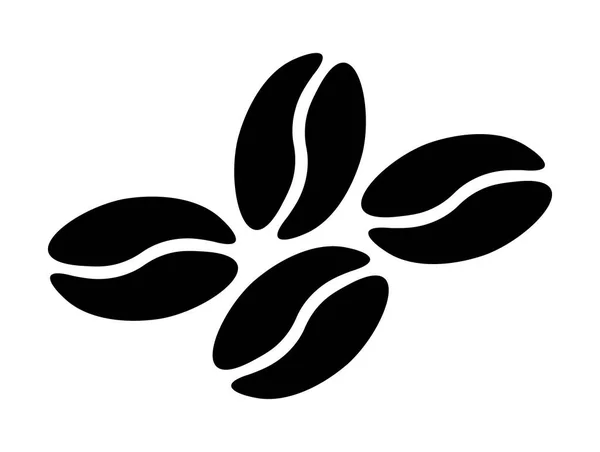
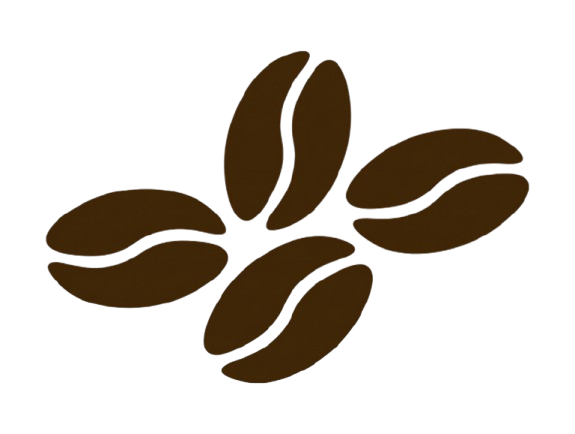
feat: update navigation features and design contact layout

Changed region(s): [[0.0591, 0.1198, 0.9165, 0.8986]]

diff --git a/style.css b/style.css
@@ -29,7 +29,7 @@ body {
 /* navigation */
 .nav-menu {
     display: flex;
-    margin: 4px 10px;
+    margin: 10px 10px;
     justify-content: space-between;
     position: relative;
 }
@@ -46,18 +46,22 @@ body {
 .left-menu p {
     display: flex;
     align-items: center;
+    font-family:'Franklin Gothic Medium', 'Arial Narrow', Arial, sans-serif;
     font-size: 20px;
+    color: #3d2607;
 }
 
 .left-menu-show {
     display: flex;
     position: absolute;
+    top: 110%;
+    z-index: 999;
     flex-direction: column;
     flex: 1;
-    width: 100px;
+    width: 200px;
     padding: 20px;
     gap: 20px;
-    background-color: white;
+    background-color: #f6eede;
     list-style: none;
     align-items: center;
     justify-content: space-between;
@@ -65,8 +69,20 @@ body {
     transition: transform 0.5s ease-in-out;
 }
 
+.left-menu-show a {
+    color: #5c3a21;
+    display: inline-block;
+    transition: transform 0.3s ease, color 0.3s ease;
+}
+
+.left-menu-show a:hover {
+    font-weight: bold;
+    transform: scale(1.1);
+}
+
 .left-menu-show.show {
     transform: translateX(-20px);
+    background-color: #fffaf1;
 }
 
 .right-menu-show {
@@ -79,8 +95,40 @@ body {
 }
 
 .nav-menu .left-menu img {
-    max-width: 5%;
+    max-width: 20%;
     height: 100%;
+}
+
+.right-menu {
+    position: relative; 
+}
+
+.search-button {
+    position: absolute;
+    z-index: 1000;
+    top: 50%;
+    right: 100%;
+    margin-right: 10px;
+    background-color: #fffaf1;
+    padding: 10px;
+    border: solid;
+    border-width: 2px;
+    border-radius: 50px;
+    transform: translateY(-50%) scaleX(0);
+    transform-origin: right center;
+    transition: transform 0.3s ease-in-out; 
+}
+
+.search-button.active {
+    transform: translateY(-50%) scaleX(1);
+}
+
+.search-button input {
+    font-size: 16px;
+    border: none;
+    outline: none;
+    background-color: #fffaf1;
+    margin-left: 10px;
 }
 
 /* hero banner */
@@ -113,13 +161,13 @@ body {
 
 .background-banner h1 {
     font-family: 'Brush Script MT', 'Lucida Handwriting', cursive;
-    font-size: 35px;
+    font-size: 20px;
     font-weight: normal;
 }
 
 .background-banner h2 {
     font-family:'Gill Sans', 'Gill Sans MT', Calibri, 'Trebuchet MS', sans-serif;
-    font-size: 50px;
+    font-size: 30px;
     font-weight: bold;
 }
 
@@ -181,7 +229,58 @@ body {
 
 /* kontak */
 #kontak {
-    margin: 20px 10px 20px;
+    margin: 20px 10px;
+    display: flex;
+    align-items: stretch;
+    border: solid;
+    color: #3d2607;
+    border-color: #000000;
+}
+
+.kontak-img {
+    flex: 0.4;
+}
+
+.kontak-info {
+    flex: 0.6;
+    background-color: #dacfb8;
+    padding: 40px;    
+    display: flex;
+    flex-direction: column;
+    justify-content: center;
+    text-align: left;
+}
+
+.kontak-info h2 {
+    margin-bottom: 0px;
+    font-size: 22px;
+}
+
+.kontak-info h4 {
+    font-style: italic;
+    font-weight: normal;
+    font-size: 12px;
+    margin-bottom: 20px;
+    border-bottom: solid;
+    padding-bottom: 10px;
+    border-color: #000000;
+}
+
+.kontak-info p {
+    margin-bottom: 10px;
+    line-height: 1.6;
+    font-size: 12px;
+}
+
+.kontak-info a:hover {
+    font-weight: bold;
+    color: #61574b;
+}
+
+.kontak-img img {
+    max-width: 100%;
+    height: 100%;
+    object-fit: cover;
 }
 
 /* footer */
@@ -200,24 +299,36 @@ footer {
         flex: 1;
     }
 
+    .nav-menu .left-menu img {
+        max-width: 10%;
+    }
+
     .left-menu-show {
         position: relative;
+        top: 0;
         flex-direction: row;
         flex-wrap: wrap;
         width: auto;
         padding: 10px;
-        gap: 20px;
+        gap: 40px;
         flex: none;
         margin-left: 12px;
         font-size: 16px;
         transform: translateX(0px);
         transition: none;
-        margin-left: 10%;
-        background-color: transparent;
     }
 
     .fas.fa-bars.fa-2x {
         display: none;
+    }
+
+    /* herro banner */
+    .background-banner h1 {
+        font-size: 25px;
+    }
+
+    .background-banner h2 {
+    font-size: 40px;
     }
 
     /* menu */
@@ -246,6 +357,19 @@ footer {
         font-size: 14px;
     }
 
+    /* kontak */
+    .kontak-info h2 {
+        font-size: 28px;
+    }
+
+    .kontak-info h4 {
+        font-size: 16px;
+    }
+
+    .kontak-info p {
+        font-size: 16px;
+    }
+
     /* footer */
     footer {
         font-size: 24px;
@@ -260,12 +384,28 @@ footer {
     }
 
     .left-menu-show {
-        font-size: 24px;
+        top: 0;
+        font-size: 20px;
+        gap: 60px;
+        margin-left: 30px;
     }
 
     .right-menu-show {
         font-size: 24px;
         gap: 40px;
+    }
+
+    .nav-menu .left-menu img {
+        max-width: 10%;
+    }
+
+    /* herro banner */
+    .background-banner h1 {
+        font-size: 35px;
+    }
+
+    .background-banner h2 {
+        font-size: 50px;
     }
 
     /* menu */
@@ -288,6 +428,19 @@ footer {
     }
 
     .tentang-text p {
+        font-size: 16px;
+    }
+
+    /* kontak */
+    .kontak-info h2 {
+        font-size: 28px;
+    }
+
+    .kontak-info h4 {
+        font-size: 16px;
+    }
+
+    .kontak-info p {
         font-size: 16px;
     }
 

diff --git a/index.html b/index.html
@@ -11,7 +11,7 @@
     <!-- navigation -->
     <nav class="nav-menu">
         <div class="left-menu">
-            <img src="img/LogoKopi.png" class="logo" alt="Logo">
+            <img src="/img/biji-kopi.jpg" alt="Logo">
             <p>KOPI NUSANTARA</p>
             <ul class="left-menu-show">
                 <li><a href="#hero-banner">Home</a></li>
@@ -23,10 +23,14 @@
 
         <div class="right-menu">
             <ul class="right-menu-show">
-                <li><a href="#"><i class="fas fa-search"></i></a></li>
+                <li><a href="#" id="searching"><i class="fas fa-search"></i></a></li>
                 <li><a href="#"><i class="fas fa-shopping-cart"></i></a></li>
                 <li><a href="#"><i class="fas fa-bars fa-2x"></i></a></li>
             </ul>
+
+            <div class="search-button">
+                <input type="search" id="search-box" placeholder="Cari kopi...">
+            </div>
         </div>
     </nav>
 
@@ -36,7 +40,7 @@
             <div class="background-banner">
                 <img src="/img/background-banner.png" alt="Banner">
                 <h1>Welcome To Our Company Profile</h1>
-                <h2>KOPI NUSANTARA</h2>
+                <h2>CITA RASA ASLI INDONESIA</h2>
             </div>
         </section>
 
@@ -111,12 +115,16 @@
 
         <!-- kontak -->
         <section id="kontak">
-            <h2>Hubungi Kami</h2>
+            <div class="kontak-img">
+                <img src="/img/kontak.png" alt="kontak">
+            </div>
+
             <div class="kontak-info">
-                <p>Lorem ipsum dolor sit, amet consectetur adipisicing.</p>
-                <p><strong>WhatsApp:</strong> 0812-3456-7890</p>
-                <p><strong>Email:</strong> kopi_nusantara@gmail.com</p>
-                <p><strong>Alamat:</strong> Jl. Letjen S. Parman, Jakarta Barat</p>
+                <h2>Hubungi Kami</h2>
+                <h4>Untuk setiap pertanyaan, pemesanan, maupun kerja sama.</h4>
+                <p><strong>WhatsApp:</strong><a href="#"> 0812-3456-7890</a></p>
+                <p><strong>Email:</strong><a href="#"> kopi_nusantara@gmail.com</a></p>
+                <p><strong>Alamat:</strong><a href="#"> Jl. Letjen S. Parman, Jakarta Barat</a></p>
             </div>
         </section>
     </main>
@@ -136,6 +144,11 @@
     <script>
         document.querySelector('.fas.fa-bars.fa-2x').addEventListener('click', () => 
         document.querySelector('.left-menu-show').classList.toggle('show'));
+
+        document.querySelector('#searching').addEventListener('click', (e) => {
+            e.preventDefault(); 
+            document.querySelector('.search-button').classList.toggle('active');
+        });
     </script>
 </body>
 </html>
